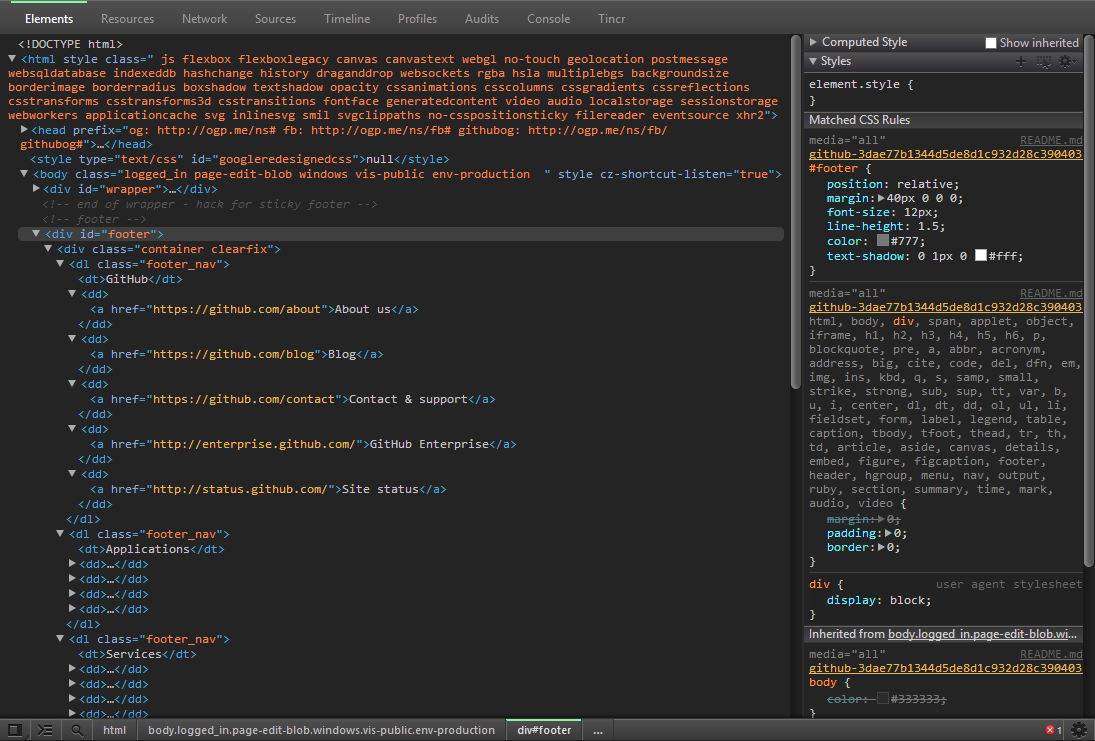
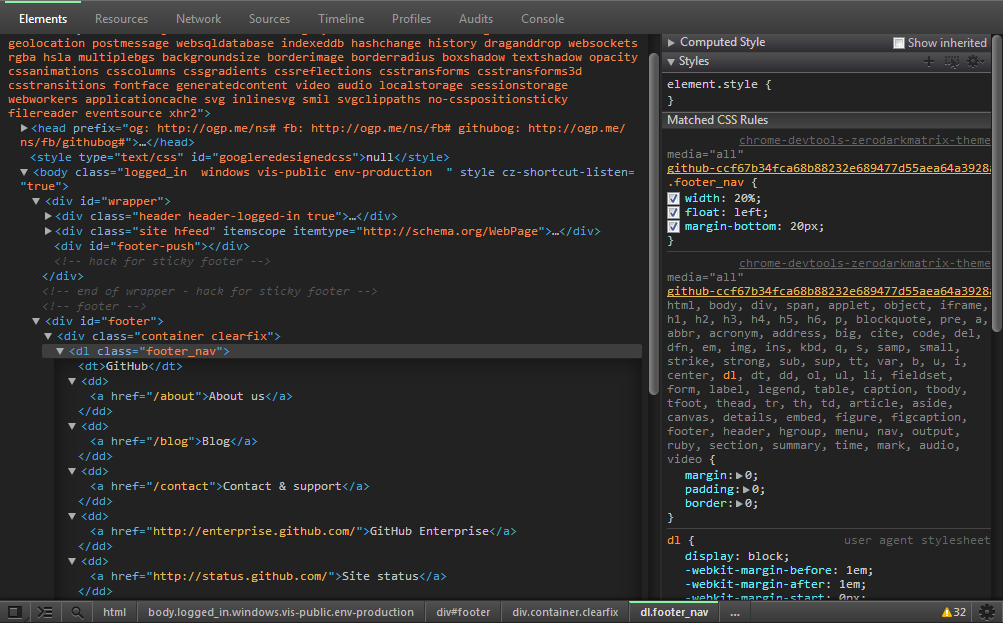
updated docs

diff --git a/README.md b/README.md
@@ -50,6 +50,7 @@ Tested on [Chrome Stable Channel](https://www.google.com/intl/en/chrome/browser/
 ** elements/sources/network panels
 * Subtle pulsating element selection
 * Re-styled Popovers (PSD files included)
+* Child element styling in elements panel
 
 ## Instructions
 

diff --git a/Changelog.md b/Changelog.md
@@ -1,5 +1,9 @@
 # Changelog
 
+## 0.5 - 29 May 2013
+* Updated highlight style in sources panel
+* Fixed snippet renaming input colors
+* Styled child container of selected/hovered elements
 
 ## 0.4 - 23 May 2013
 * Styled dialog container.
